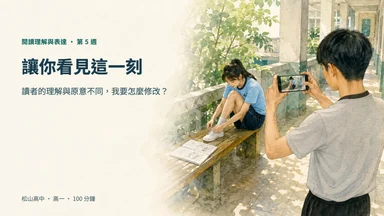
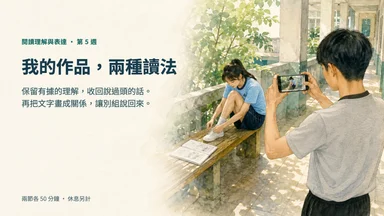
Match W5 homepage cover and label to new reader challenge

Changed region(s): [[0.0312, 0.25, 0.4688, 0.3611], [0.0312, 0.3889, 0.4375, 0.5], [0.0625, 0.8889, 0.25, 0.9444]]

diff --git a/index.html b/index.html
@@ -63,7 +63,7 @@
 <div class="week-cover"><img alt="" decoding="async" height="432" loading="lazy" sizes="(max-width: 540px) 35vw, (max-width: 760px) 46vw, (max-width: 1244px) 30vw, 376px" src="assets/week-covers/W4.webp" srcset="assets/week-covers/W4-small.webp 384w, assets/week-covers/W4.webp 768w" width="768"/></div>
 <div class="week-copy"><div class="week-top"><span class="wn">W4</span><span class="wcode">個人作品・初讀與改留</span></div><h3 class="wtitle">讓別人看見那一刻</h3><p class="wdesc">我想表達的意思，別人從哪些線索讀到？</p><span class="open-deck">開啟簡報 <span aria-hidden="true">↗</span></span></div></a><a class="week-card" href="W5/">
 <div class="week-cover"><img alt="" decoding="async" height="432" loading="lazy" sizes="(max-width: 540px) 35vw, (max-width: 760px) 46vw, (max-width: 1244px) 30vw, 376px" src="assets/week-covers/W5.webp" srcset="assets/week-covers/W5-small.webp 384w, assets/week-covers/W5.webp 768w" width="768"/></div>
-<div class="week-copy"><div class="week-top"><span class="wn">W5</span><span class="wcode">原讀者再讀・文字轉圖</span></div><h3 class="wtitle">圖說了什麼，讀者收到了什麼？</h3><p class="wdesc">留言有沒有根據？換成圖，仍忠於文字嗎？</p><span class="open-deck">開啟簡報 <span aria-hidden="true">↗</span></span></div></a><a class="week-card" href="W6/" id="m2">
+<div class="week-copy"><div class="week-top"><span class="wn">W5</span><span class="wcode">甲乙留言判讀・文字轉圖</span></div><h3 class="wtitle">我的作品，兩種讀法</h3><p class="wdesc">留言有沒有根據？換成圖，仍忠於文字嗎？</p><span class="open-deck">開啟簡報 <span aria-hidden="true">↗</span></span></div></a><a class="week-card" href="W6/" id="m2">
 <div class="week-cover"><img alt="" decoding="async" height="432" loading="lazy" sizes="(max-width: 540px) 35vw, (max-width: 760px) 46vw, (max-width: 1244px) 30vw, 376px" src="assets/week-covers/W6.webp" srcset="assets/week-covers/W6-small.webp 384w, assets/week-covers/W6.webp 768w" width="768"/></div>
 <div class="week-copy"><div class="week-top"><span class="wn">W6</span><span class="wcode">有根據的解讀</span></div><h3 class="wtitle">我介紹的，是作品，還是我的補白？</h3><p class="wdesc">從線索形成解讀，交代推論的界線</p><span class="open-deck">開啟簡報 <span aria-hidden="true">↗</span></span></div></a><a class="week-card" href="W7/" id="m3">
 <div class="week-cover"><img alt="" decoding="async" height="432" loading="lazy" sizes="(max-width: 540px) 35vw, (max-width: 760px) 46vw, (max-width: 1244px) 30vw, 376px" src="assets/week-covers/W7.webp" srcset="assets/week-covers/W7-small.webp 384w, assets/week-covers/W7.webp 768w" width="768"/></div>
